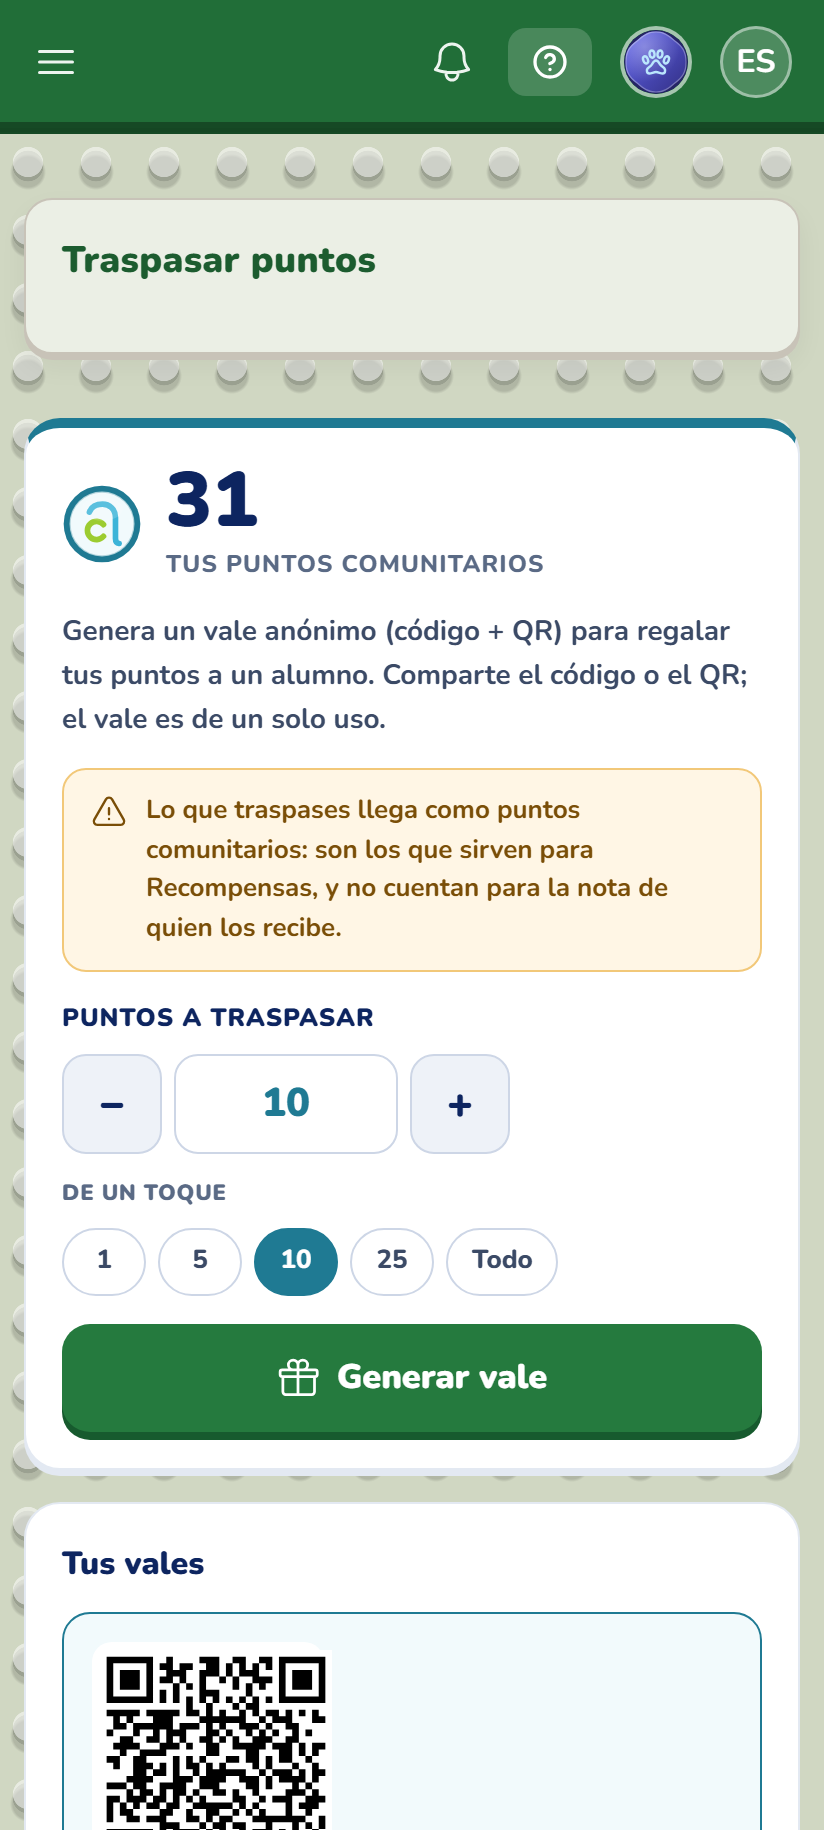
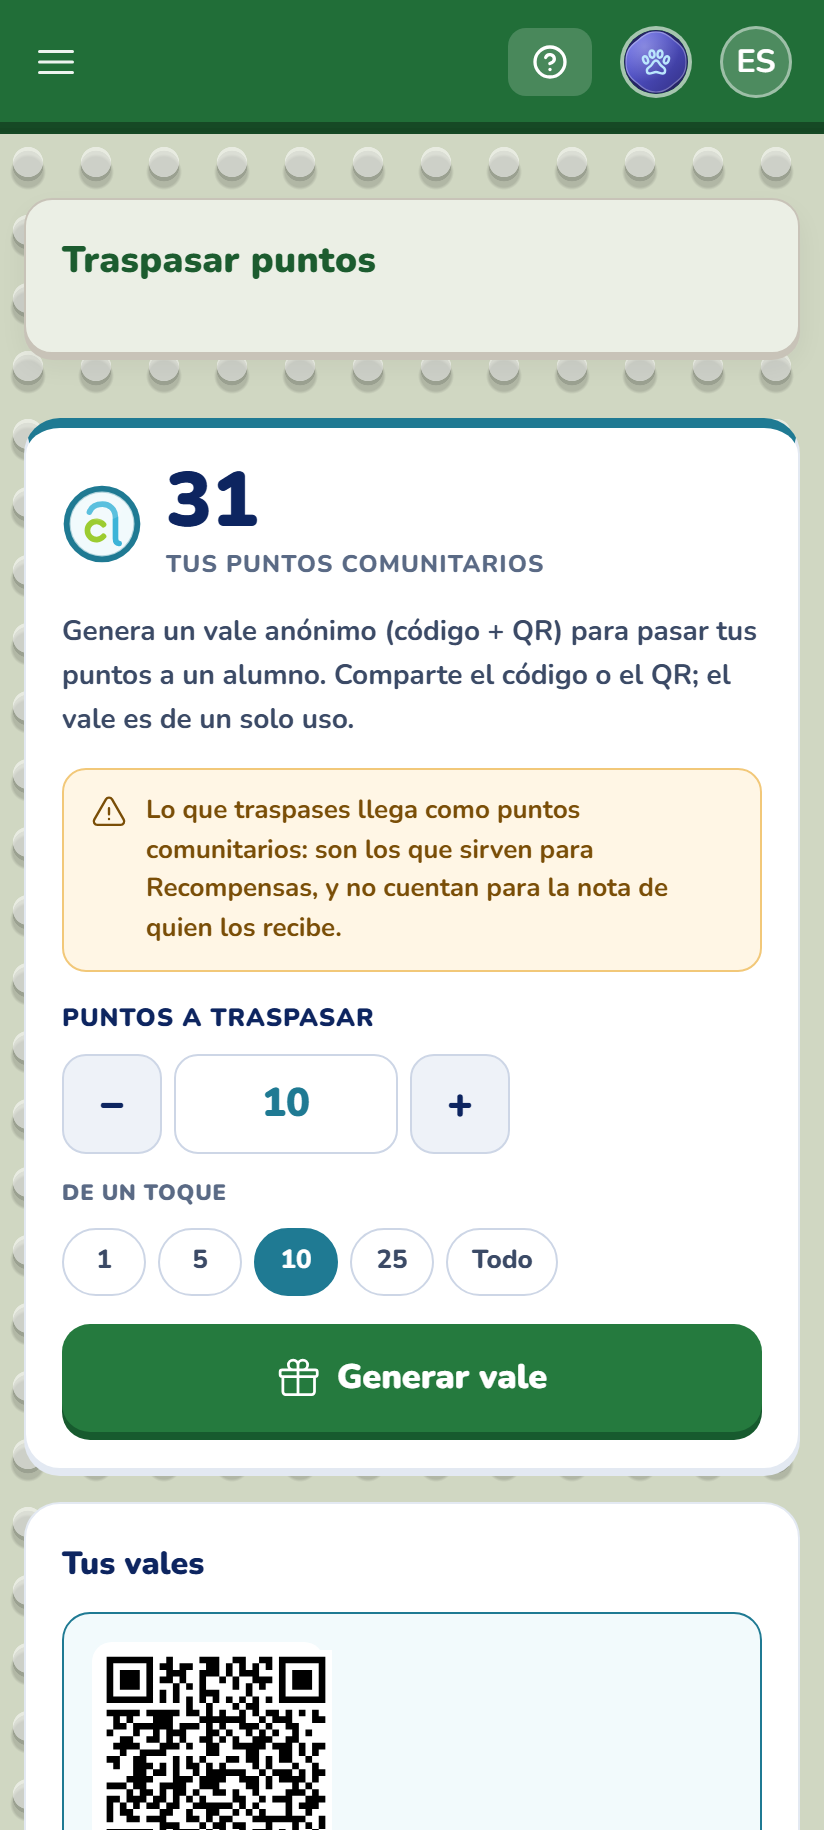
feat(familias): sin recompensas concretas y sin «premio» ni «regalar»
El catálogo se va a construir a lo largo del curso, así que nombrar
recompensas ahora es comprometerlas: fuera la tabla y la lista, y en su lugar
se dice lo que sí es cierto —que el catálogo está en construcción y que las
más sencillas cuestan una sola participación—. La captura que queda lleva su
aviso de que es un ejemplo.

También fuera «premio» y «regalar»: los créditos se suman participando, y
decirlo de otro modo cuenta otra historia. Esa palabra estaba además dentro de
la aplicación y salía leída en las capturas del paso 2.

Changed region(s): [[0.0607, 0.3426, 0.4551, 0.4049], [0.4551, 0.3426, 0.9102, 0.3738], [0.5461, 0.0311, 0.5765, 0.0623]]

diff --git a/familias/index.html b/familias/index.html
@@ -8,20 +8,23 @@
      —quien tenga la dirección entra—, pero así no aparece en Google. La otra
      mitad del apaño está en el robots.txt del sitio. -->
 <meta name="robots" content="noindex, nofollow">
-<title>Vuestra participación tiene premio · CdA IES Al-Ándalus</title>
+<title>Vuestra participación suma · CdA IES Al-Ándalus</title>
 <!--
     Mensaje para las familias, para enlazar desde Séneca.
 
     Pensado para leerse EN EL MÓVIL, que es donde lo van a abrir. Sin fuentes
-    externas, sin scripts y sin nada que descargar: todo está en este fichero o
-    en la carpeta «capturas» de al lado.
+    externas, sin scripts y sin nada que descargar.
 
-    Las familias de este centro YA SABEN lo que es una Comunidad de
-    Aprendizaje: aquí no se les explica, se les dice lo que hay que hacer.
+    Dos cosas se evitan a propósito:
+
+      · NO se nombra ninguna recompensa concreta. El catálogo se va a
+        construir a lo largo del curso, y nombrar cosas ahora es
+        comprometerlas. La captura del catálogo lleva su aviso.
+      · NO se usan «premio» ni «regalar». Los créditos se suman participando,
+        no se regalan, y decirlo de otro modo cuenta otra historia.
 
     Las monedas son las de verdad, sacadas del componente <x-moneda> con
-    `php artisan tinker herramientas/seneca/monedas.php`. Una moneda repintada
-    «parecida» se desincroniza al primer retoque.
+    `php artisan tinker herramientas/seneca/monedas.php`.
 -->
 <style>
     *,*::before,*::after{box-sizing:border-box}
@@ -39,7 +42,6 @@
     .bloque{padding:26px 20px}
     h1,h2,h3{margin:0; line-height:1.25; text-wrap:balance}
 
-    /* ── Portada ─────────────────────────────────────────────────────── */
     .portada{
         background:linear-gradient(160deg,#0D2560 0%,#173A82 55%,#2050A0 100%);
         color:#fff; padding:34px 20px 30px; text-align:center;
@@ -49,7 +51,6 @@
     .portada h1{font-size:31px; font-weight:800; letter-spacing:-.01em}
     .portada p{margin:14px 0 0; font-size:16.5px; line-height:1.55; color:#D6E2F7}
 
-    /* ── El mecanismo, en tres golpes ────────────────────────────────── */
     .mecanismo{display:flex; flex-direction:column; gap:10px; margin:0}
     .mec{
         display:flex; align-items:center; gap:13px; border:2px solid var(--linea);
@@ -61,11 +62,7 @@
         font-size:17px; font-weight:800;
     }
     .mec span{font-size:15.5px; line-height:1.45; font-weight:600}
-    .remate{
-        margin:14px 0 0; text-align:center; font-size:17px; font-weight:800; color:var(--verde);
-    }
 
-    /* ── Secciones ───────────────────────────────────────────────────── */
     .titulo-seccion{
         font-size:12px; font-weight:800; letter-spacing:.12em; text-transform:uppercase;
         color:var(--suave); margin:0 0 6px;
@@ -73,7 +70,6 @@
     h2.grande{font-size:25px; font-weight:800; margin:0 0 6px}
     .entradilla{margin:0 0 18px; color:var(--suave); font-size:15.5px}
 
-    /* ── Listas de golpe ─────────────────────────────────────────────── */
     ul.lista{list-style:none; margin:0; padding:0; display:flex; flex-direction:column; gap:7px}
     ul.lista li{
         display:flex; gap:10px; align-items:flex-start; background:#F1FBF4;
@@ -83,13 +79,9 @@
     ul.lista li::before{content:"✔"; color:var(--verde); font-weight:800; flex:0 0 auto}
     ul.lista li em{font-style:normal; color:var(--suave); font-weight:600; font-size:13.5px}
 
-    /* ── La rúbrica ──────────────────────────────────────────────────── */
-    .rubrica{
-        display:block; width:100%; height:auto; margin:16px 0 0;
-        border:2px solid var(--linea); border-radius:14px;
-    }
+    .rubrica{display:block; width:100%; height:auto; margin:16px 0 0;
+        border:2px solid var(--linea); border-radius:14px}
 
-    /* ── Las dos monedas ─────────────────────────────────────────────── */
     .moneda-ficha{border:2px solid var(--linea); border-radius:18px; padding:18px; margin:0 0 14px}
     .moneda-ficha--acad{border-color:#F0C98A; background:#FFFBF2}
     .moneda-ficha--com{border-color:#A8D9E6; background:#F2FBFD}
@@ -111,7 +103,6 @@
         font-size:15.5px; line-height:1.5;
     }
 
-    /* ── Pasos ───────────────────────────────────────────────────────── */
     .paso{margin:0 0 24px}
     .paso:last-child{margin-bottom:0}
     .paso-cab{display:flex; align-items:flex-start; gap:12px; margin-bottom:11px}
@@ -123,7 +114,6 @@
     .paso-cab h3{font-size:18px; font-weight:800; padding-top:4px}
     .paso p{margin:0 0 11px; font-size:15px; line-height:1.5}
 
-    /* ── Capturas ────────────────────────────────────────────────────── */
     figure{margin:0}
     .pantalla{
         display:block; width:100%; max-width:270px; margin:0 auto; height:auto;
@@ -136,23 +126,14 @@
         line-height:1.45; color:var(--suave); font-weight:600;
     }
 
-    /* ── Tabla de recompensas ────────────────────────────────────────── */
-    .tabla-envoltorio{overflow-x:auto; margin:16px 0 0}
-    table{border-collapse:collapse; width:100%; font-size:14px}
-    caption{caption-side:bottom; padding-top:10px; font-size:13px; color:var(--verde);
-        text-align:left; font-weight:700}
-    th,td{padding:9px 10px; text-align:left; border-bottom:1px solid var(--linea)}
-    thead th{
-        background:var(--azul); color:#fff; font-size:11px; font-weight:800;
-        letter-spacing:.06em; text-transform:uppercase; border-bottom:0;
+    /* El aviso de que el catálogo está a medias: en ámbar, que es el color de
+       lo que está avisando en toda la aplicación. */
+    .enobras{
+        margin:16px 0 0; border:2px solid #F2C879; background:#FFF6E5; color:#7A4E07;
+        border-radius:14px; padding:16px 18px; font-size:15px; line-height:1.55;
     }
-    thead th:first-child{border-radius:9px 0 0 0}
-    thead th:last-child{border-radius:0 9px 0 0}
-    tbody tr:nth-child(even){background:#FAFBFE}
-    td.veces{font-weight:800; color:var(--verde); text-align:center; white-space:nowrap}
-    td.puntos{font-weight:800; color:var(--cian); text-align:center}
+    .enobras strong{color:#6B4A00}
 
-    /* ── Correo / aviso / cierre ─────────────────────────────────────── */
     .correo{margin:16px 0 0; text-align:center; background:var(--azul); color:#fff;
         border-radius:16px; padding:20px 18px}
     .correo p{margin:0 0 12px; font-size:15px; line-height:1.5; color:#D6E2F7}
@@ -183,27 +164,26 @@
     <!-- ══ Portada ══════════════════════════════════════════════════ -->
     <header class="portada">
         <p class="sello">Comunidad de Aprendizaje · IES Al-Ándalus</p>
-        <h1>Vuestra participación<br>ya tiene premio</h1>
-        <p>Venís al instituto. Ganáis créditos.<br>Vuestro hijo o hija los cambia por algo que le apetece.</p>
+        <h1>Vuestra participación<br>suma</h1>
+        <p>Participáis en el instituto. Sumáis créditos.<br>Vuestro hijo o hija consigue recompensas.</p>
     </header>
 
     <!-- ══ El mecanismo ═════════════════════════════════════════════ -->
     <section class="bloque">
         <div class="mecanismo">
-            <div class="mec"><b>1</b><span>Venís a lo que sea: un grupo interactivo, una tertulia, una fiesta. <strong>5 créditos.</strong></span></div>
-            <div class="mec"><b>2</b><span>Se los pasáis con un código desde el móvil.</span></div>
-            <div class="mec"><b>3</b><span>Los cambia por lo que quiera del catálogo.</span></div>
+            <div class="mec"><b>1</b><span>Participáis en una actividad del centro. <strong>5 créditos.</strong></span></div>
+            <div class="mec"><b>2</b><span>Esos créditos pasan a vuestro hijo o hija desde el móvil.</span></div>
+            <div class="mec"><b>3</b><span>Con ellos entra en el catálogo del centro y elige.</span></div>
         </div>
-        <p class="remate">Ya está. Eso es todo.</p>
     </section>
 
     <hr class="sep">
 
-    <!-- ══ Dónde se ganan ═══════════════════════════════════════════ -->
+    <!-- ══ Dónde se suman ═══════════════════════════════════════════ -->
     <section class="bloque">
-        <p class="titulo-seccion">Dónde los ganáis</p>
-        <h2 class="grande">5 créditos por cada vez que venís</h2>
-        <p class="entradilla">No hay que preparar nada ni saber de nada. Se explica al llegar.</p>
+        <p class="titulo-seccion">Dónde se suman</p>
+        <h2 class="grande">5 créditos cada vez que participáis</h2>
+        <p class="entradilla">No hace falta preparar nada ni saber de nada. Se explica al llegar.</p>
 
         <ul class="lista">
             <li>Grupos interactivos</li>
@@ -212,7 +192,7 @@
             <li>Asamblea de delegados</li>
             <li>Consejo escolar</li>
             <li>Fiesta del Sueño <em>· 1.er trimestre — 5 por familiar, hasta 25</em></li>
-            <li>Semana Cultural <em>· 2.º trimestre — venir u organizar, hasta 25</em></li>
+            <li>Semana Cultural <em>· 2.º trimestre — participar u organizar, hasta 25</em></li>
             <li>Fiesta de las Familias <em>· 3.er trimestre — 5 por familiar, hasta 25</em></li>
             <li>Cualquier otra actividad de la comunidad <em>· hasta 5 por sesión</em></li>
         </ul>
@@ -221,6 +201,36 @@
             <img class="rubrica" src="capturas/12-rubrica-familias.jpg"
                  alt="Rúbrica de Participación Familias, curso 2026-2027: las nueve formas de conseguir créditos y cuántos da cada una.">
             <figcaption>La rúbrica del curso, para tenerla a mano.</figcaption>
+        </figure>
+    </section>
+
+    <hr class="sep">
+
+    <!-- ══ Las recompensas ══════════════════════════════════════════ -->
+    <section class="bloque">
+        <p class="titulo-seccion">Para qué sirven</p>
+        <h2 class="grande">Las recompensas</h2>
+        <p class="entradilla">
+            Con esos créditos, vuestro hijo o vuestra hija entra en el catálogo del centro
+            y elige lo que quiere.
+        </p>
+
+        <div class="enobras">
+            <strong>El catálogo todavía se está construyendo</strong>, y seguirá creciendo
+            durante todo el curso con lo que vaya haciendo falta. Por eso aquí no aparece
+            ninguna recompensa concreta: lo que veáis en las imágenes es solo un ejemplo
+            de cómo se verá.
+        </div>
+
+        <p style="margin:18px 0 0; font-size:16px; line-height:1.55">
+            <strong>Las más sencillas cuestan 5 créditos.</strong> Es decir: con una sola
+            participación vuestra, ya puede pedir la primera.
+        </p>
+
+        <figure style="margin-top:18px">
+            <img class="pantalla" src="capturas/08-alumno-recompensas.png"
+                 alt="El catálogo de recompensas del alumnado, con su saldo de créditos arriba.">
+            <figcaption>Un ejemplo del catálogo, aún en construcción.</figcaption>
         </figure>
     </section>
 
@@ -249,13 +259,13 @@
                     <span class="moneda-quien">Solo los consigue el alumnado</span>
                 </div>
             </div>
-            <p>Se los gana él o ella con su trabajo. No se compran ni se regalan.</p>
+            <p>Se los gana él o ella con su trabajo. Dependen solo de su esfuerzo.</p>
             <strong class="clave">Al llegar a 50, +1 en la nota final de todas las materias.</strong>
         </article>
 
         <article class="moneda-ficha moneda-ficha--com">
             <div class="moneda-cab">
-                <svg viewBox="0 0 48 48" role="img" aria-label="Puntos comunitarios">
+                <svg viewBox="0 0 48 48" role="img" aria-label="Créditos comunitarios">
                     <circle cx="24" cy="24" r="23" fill="#1F7A93"/>
                     <circle cx="24" cy="24" r="19.5" fill="#F1FAFC"/>
                     <circle cx="24" cy="24" r="19.5" fill="none" stroke="#1F7A93" stroke-opacity=".3" stroke-width="1.4"/>
@@ -267,52 +277,52 @@
                 </svg>
                 <div>
                     <h3>Créditos comunitarios</h3>
-                    <span class="moneda-quien">Solo los conseguís vosotros</span>
+                    <span class="moneda-quien">Solo los sumáis vosotros</span>
                 </div>
             </div>
-            <p>Los ganáis participando y se los pasáis con un código.</p>
+            <p>Se suman participando y pasan a vuestro hijo o hija con un código.</p>
             <strong class="clave">Sirven solo para recompensas. No suben ninguna nota.</strong>
         </article>
 
         <p class="subraya">
-            Dicho claro: <strong>participar no le sube la nota a nadie</strong>. La nota se la gana
-            él o ella. Lo vuestro abre otra puerta —la de las recompensas— y <strong>esa solo la
-            abrís vosotros</strong>.
+            Dicho claro: <strong>participar no le sube la nota a nadie</strong>. La nota se la
+            gana él o ella. Lo vuestro abre otra puerta —la de las recompensas— y
+            <strong>esa solo se abre participando</strong>.
         </p>
 
         <figure style="margin-top:18px">
             <img class="pantalla" src="capturas/11-alumno-escritorio.png"
-                 alt="Pantalla del alumnado con las dos monedas: 38 de 50 puntos académicos y los créditos comunitarios.">
+                 alt="Pantalla del alumnado con las dos monedas: los puntos académicos y los créditos comunitarios, por separado.">
             <figcaption>Así lo ve vuestro hijo o hija: las dos monedas, separadas.</figcaption>
         </figure>
     </section>
 
     <hr class="sep">
 
-    <!-- ══ Cómo se los pasáis ═══════════════════════════════════════ -->
+    <!-- ══ Cómo pasan los créditos ══════════════════════════════════ -->
     <section class="bloque">
         <p class="titulo-seccion">Con el móvil, en un minuto</p>
-        <h2 class="grande">Cómo se los pasáis</h2>
+        <h2 class="grande">Cómo le llegan</h2>
 
         <div class="paso">
             <div class="paso-cab"><span class="paso-num">1</span><h3>Miráis a qué apuntaros</h3></div>
-            <p>Cada actuación dice el día, lo que dura y los créditos que da.</p>
+            <p>Cada actividad dice el día, lo que dura y los créditos que suma.</p>
             <figure>
                 <img class="pantalla" src="capturas/03-familia-oportunidades.png"
-                     alt="Lista de actuaciones abiertas con su fecha, sus horas y los créditos que da cada una.">
+                     alt="Lista de actividades abiertas con su fecha, sus horas y los créditos que suma cada una.">
                 <figcaption>Lo que hay abierto, con sus créditos al lado.</figcaption>
             </figure>
         </div>
 
         <div class="paso">
-            <div class="paso-cab"><span class="paso-num">2</span><h3>Generáis el vale</h3></div>
+            <div class="paso-cab"><span class="paso-num">2</span><h3>Creáis el vale</h3></div>
             <p>Elegís cuántos créditos le pasáis y sale un código con QR. Sin nombres y de un solo uso.</p>
             <figure>
                 <div class="par">
                     <img class="pantalla" src="capturas/05-familia-traspasar.png"
-                         alt="Pantalla para traspasar créditos, con el saldo y el botón de generar vale.">
+                         alt="Pantalla para pasar créditos, con el saldo y el botón de crear el vale.">
                     <img class="pantalla" src="capturas/06-familia-vale-qr.png"
-                         alt="El vale generado, con su código QR, su código escrito y los créditos que lleva.">
+                         alt="El vale creado, con su código QR, su código escrito y los créditos que lleva.">
                 </div>
                 <figcaption>Elegís la cantidad y sale el vale con su QR.</figcaption>
             </figure>
@@ -331,51 +341,17 @@
 
     <hr class="sep">
 
-    <!-- ══ Qué se lleva ═════════════════════════════════════════════ -->
-    <section class="bloque">
-        <p class="titulo-seccion">Y esto es lo que se lleva</p>
-        <h2 class="grande">Qué puede pedir</h2>
-        <p class="entradilla">Cada recompensa dice cuántas veces tenéis que venir. Sin cuentas.</p>
-
-        <div class="tabla-envoltorio">
-            <table>
-                <caption>Con venir UNA vez ya hay algo que pedir. No hay que esperar a juntar nada.</caption>
-                <thead>
-                    <tr><th>Veces</th><th>Pts.</th><th>Qué se lleva</th></tr>
-                </thead>
-                <tbody>
-                    <tr><td class="veces">1</td><td class="puntos">5</td><td>Elegir la música del recreo · Un diploma firmado</td></tr>
-                    <tr><td class="veces">2</td><td class="puntos">10</td><td>Un día con la mesa de futbolín · Dos mañanas en el huerto</td></tr>
-                    <tr><td class="veces">3</td><td class="puntos">15</td><td>Su foto en el tablón de honor · Imprimir su modelo 3D</td></tr>
-                    <tr><td class="veces">4</td><td class="puntos">20</td><td>Un día sin deberes</td></tr>
-                    <tr><td class="veces">5</td><td class="puntos">25</td><td>Delegado una semana · Elegir su sitio en clase una semana</td></tr>
-                    <tr><td class="veces">6-8</td><td class="puntos">30-40</td><td>Dirigir una tutoría · El libro que elija · Padrino de lectura</td></tr>
-                </tbody>
-            </table>
-        </div>
-
-        <figure style="margin-top:20px">
-            <div class="par">
-                <img class="pantalla" src="capturas/08-alumno-recompensas.png"
-                     alt="Catálogo de recompensas del alumnado, con el saldo arriba y la primera recompensa.">
-                <img class="pantalla" src="capturas/09-alumno-recompensas-mas.png"
-                     alt="Más recompensas, cada una con las participaciones que cuesta.">
-            </div>
-            <figcaption>En verde, bajo cada recompensa: «Tu familia lo consigue con…».</figcaption>
-        </figure>
-    </section>
-
-    <hr class="sep">
-
     <!-- ══ Ideas ════════════════════════════════════════════════════ -->
     <section class="bloque">
-        <p class="titulo-seccion">Esto no está cerrado</p>
-        <h2 class="grande">Faltan recompensas por inventar</h2>
-        <p class="entradilla" style="margin-bottom:0">La lista irá creciendo con lo que vaya haciendo falta.</p>
+        <p class="titulo-seccion">Se admiten propuestas</p>
+        <h2 class="grande">Ayudadnos a construirlo</h2>
+        <p class="entradilla" style="margin-bottom:0">
+            El catálogo lo vamos a ir haciendo entre todos a lo largo del curso.
+        </p>
 
         <div class="correo">
-            <p>¿Se os ocurre una que esté bien? Escribidnos. La estudiamos y, si encaja y no da
-               problemas, la metemos en la aplicación.</p>
+            <p>¿Se os ocurre alguna recompensa que encaje? Escribidnos. La estudiamos y, si
+               encaja y no da problemas, la metemos en la aplicación.</p>
             <a href="mailto:cda@iesalandalus.org">cda@iesalandalus.org</a>
         </div>
     </section>
